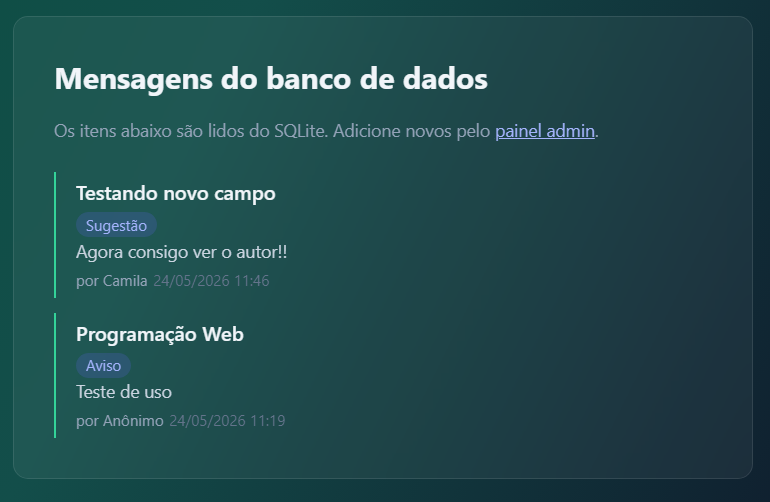
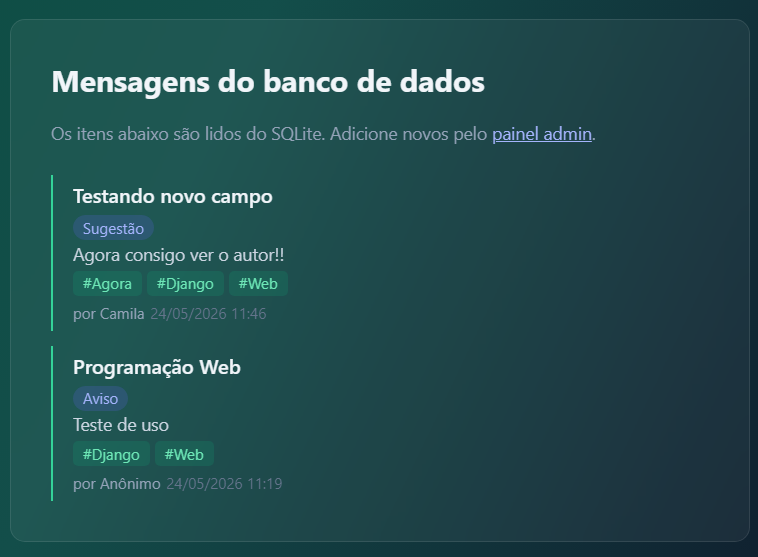
Parte 4

diff --git a/templates/home/index.html b/templates/home/index.html
@@ -70,7 +70,16 @@
                                 </span>
                             {% endif %}
                             <p class="text-sm text-slate-300">{{ m.conteudo }}</p>
-                            <span class="text-xs text-slate-400">por {{m.autor}}</span>
+                            {% if m.tags.all %}                                          
+                                <div class="flex flex-wrap gap-1 mt-1">
+                                    {% for tag in m.tags.all %}
+                                        <span class="inline-block px-2 py-0.5 bg-emerald-500/15 text-emerald-300 text-xs rounded">
+                                            #{{ tag.nome }}
+                                        </span>
+                                    {% endfor %}
+                                </div>
+                            {% endif %}
+                            <span class="text-xs text-slate-400">por {{ m.autor }}</span>
                             <span class="text-xs text-slate-500">{{ m.criada_em|date:"d/m/Y H:i" }}</span>
                         </li>
                     {% endfor %}

diff --git a/home/migrations/0004_tag_mensagem_tags.py b/home/migrations/0004_tag_mensagem_tags.py
@@ -1,0 +1,28 @@
+# Generated by Django 5.1.3 on 2026-07-05 23:35
+
+from django.db import migrations, models
+
+
+class Migration(migrations.Migration):
+
+    dependencies = [
+        ('home', '0003_categoria_mensagem_categoria'),
+    ]
+
+    operations = [
+        migrations.CreateModel(
+            name='Tag',
+            fields=[
+                ('id', models.BigAutoField(auto_created=True, primary_key=True, serialize=False, verbose_name='ID')),
+                ('nome', models.SlugField(max_length=30, unique=True)),
+            ],
+            options={
+                'ordering': ['nome'],
+            },
+        ),
+        migrations.AddField(
+            model_name='mensagem',
+            name='tags',
+            field=models.ManyToManyField(blank=True, related_name='mensagens', to='home.tag'),
+        ),
+    ]

diff --git a/home/models.py b/home/models.py
@@ -1,8 +1,17 @@
 from django.db import models
 
 
-class Categoria(models.Model):                                  # ← novo model
+class Categoria(models.Model):                                  
     nome = models.CharField(max_length=50, unique=True)
+
+    class Meta:
+        ordering = ["nome"]
+
+    def __str__(self):
+        return self.nome
+    
+class Tag(models.Model):                                        
+    nome = models.SlugField(max_length=30, unique=True)
 
     class Meta:
         ordering = ["nome"]
@@ -18,6 +27,11 @@ class Mensagem(models.Model):
         Categoria,
         on_delete=models.SET_NULL,
         null=True,
+        blank=True,
+        related_name="mensagens",
+    )
+    tags = models.ManyToManyField(
+        Tag,
         blank=True,
         related_name="mensagens",
     )

diff --git a/home/admin.py b/home/admin.py
@@ -1,15 +1,21 @@
 from django.contrib import admin
 
 # Register your models here.
-from .models import Categoria, Mensagem
+from .models import Categoria, Mensagem, Tag
 
 @admin.register(Categoria)
 class CategoriaAdmin(admin.ModelAdmin):
     list_display = ("nome",)
     search_fields = ("nome",)
 
[email redacted](Tag)                                            
+class TagAdmin(admin.ModelAdmin):
+    list_display = ("nome",)
+    search_fields = ("nome",)
+
 @admin.register(Mensagem)
 class MensagemAdmin(admin.ModelAdmin):
     list_display = ("titulo", "categoria", "criada_em")
-    list_filter = ("categoria",)
+    list_filter = ("categoria", "tags")
     search_fields = ("titulo", "conteudo")
+    filter_horizontal = ("tags",)